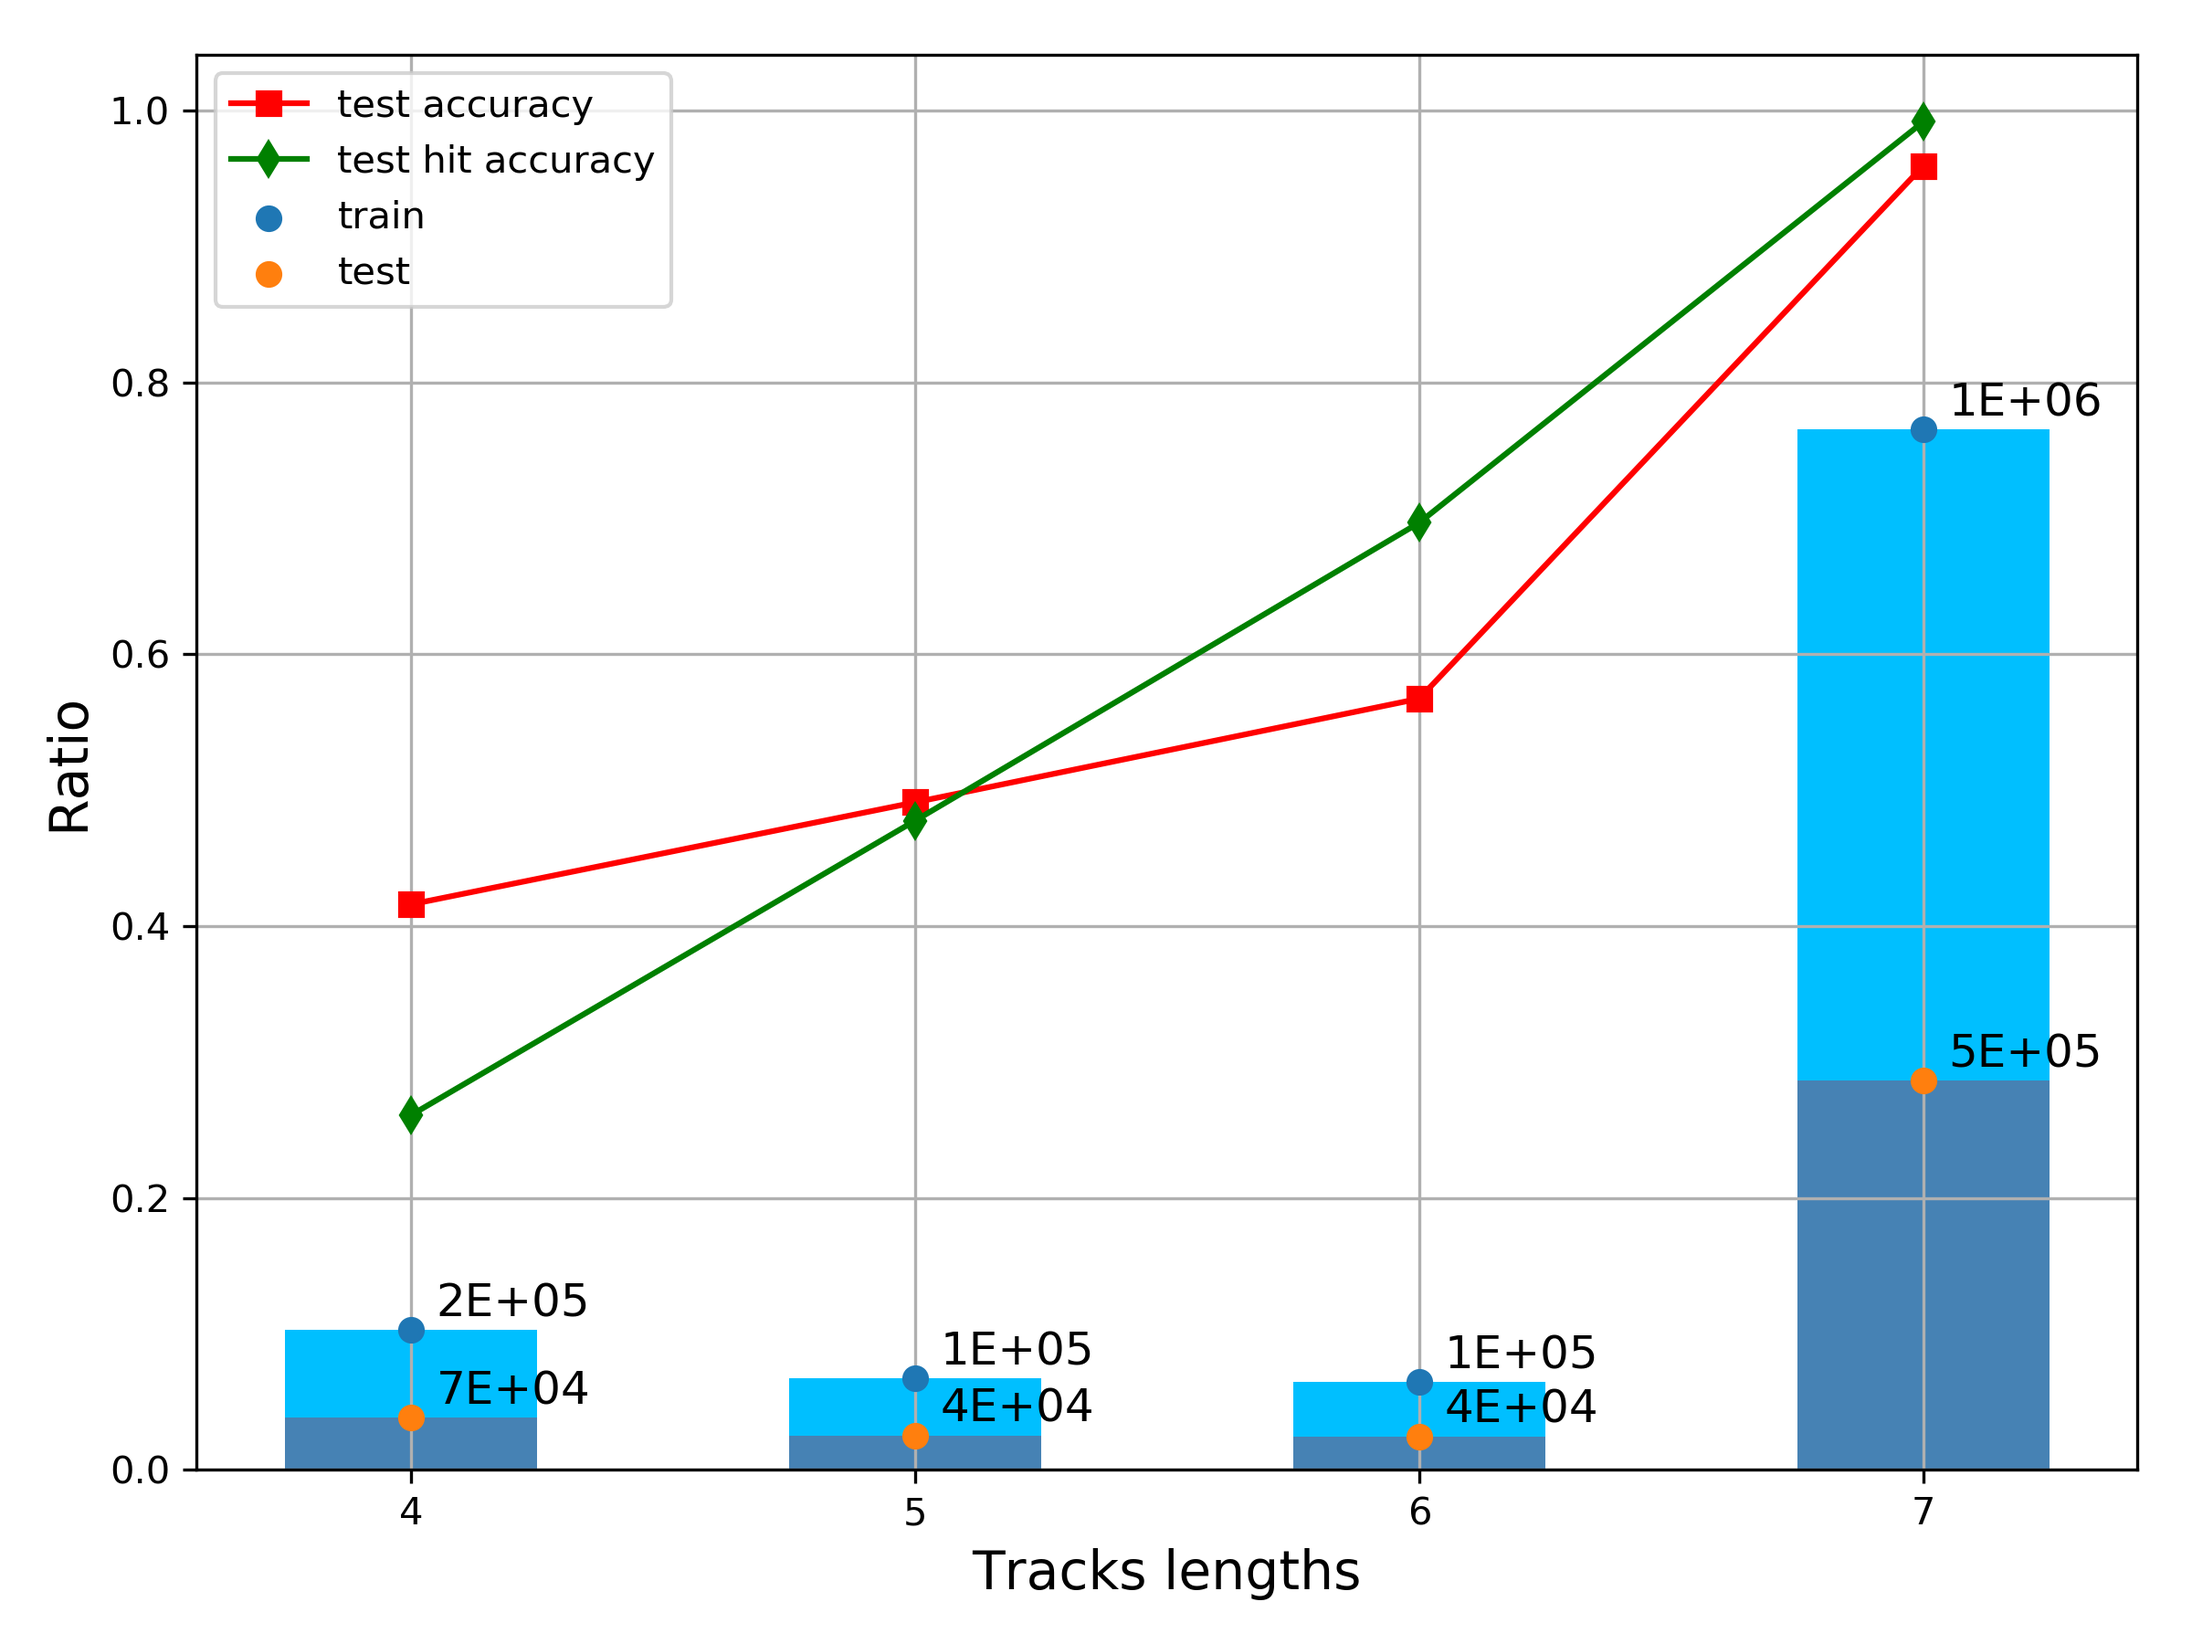
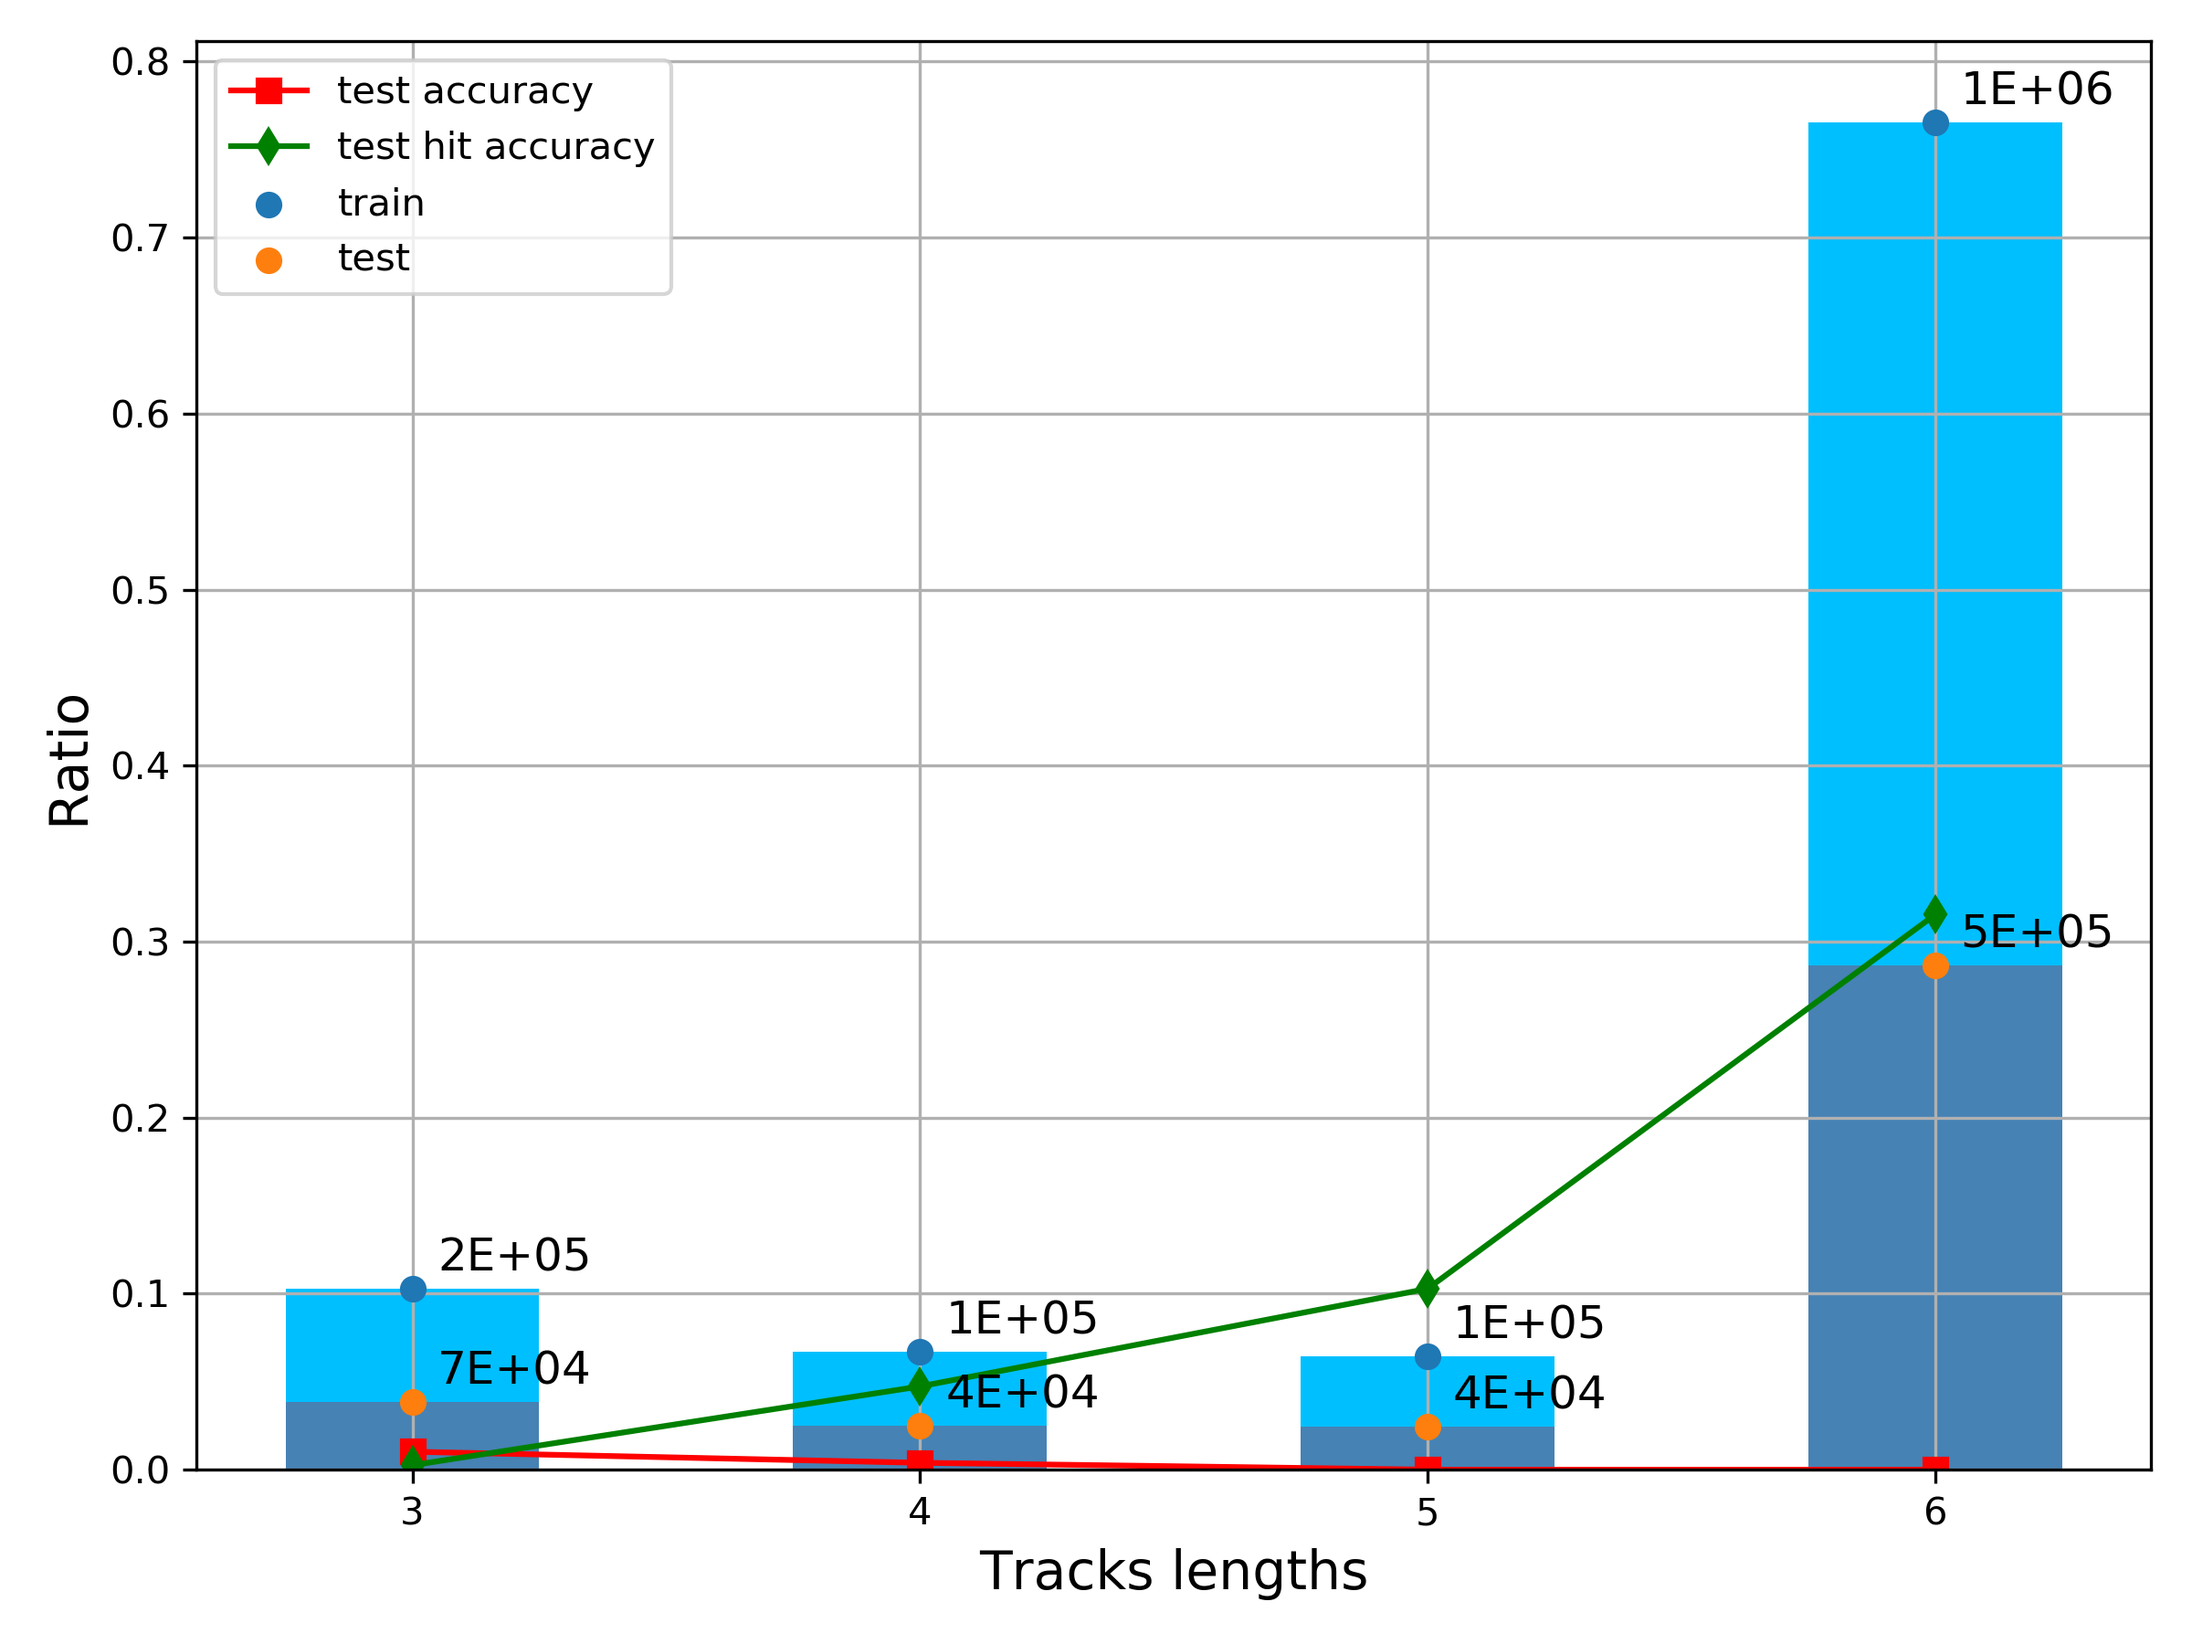
broken tracks dropping on dataset creation

diff --git a/src/data_utils.py b/src/data_utils.py
@@ -49,15 +49,16 @@ def get_tracks_with_vertex(df, vertex_stats=None, random_seed=13, train_split=No
     # initialize bins with [min_tracks]*n_stations
     if train_split:
         is_equal_distr = len(set(train_split)) == 1
+        v_cnts = groupby.size().value_counts()
         if not is_equal_distr:
             # assert False and "TODO: custom split"
-            v_cnts = groupby.size().value_counts()
             bins = [v_cnts[val] if val >= (n_stations + 1 - len(train_split)) else 0 for val in range(n_stations + 1)]
             for ind, val in enumerate(range((n_stations + 1 - len(train_split)), n_stations+1)):
                 if train_split[ind] != -1:
                     bins[val] *= train_split[ind]
         else:
-            bins = [groupby.size().value_counts().min()] * (n_stations + 1)
+            min_val = v_cnts.min()
+            bins = [ min_val if station in v_cnts else 0 for station in range(n_stations + 1)]
 
 
     # create result array
@@ -73,13 +74,16 @@ def get_tracks_with_vertex(df, vertex_stats=None, random_seed=13, train_split=No
         res[:, 0] = vertex
 
     # get tracks
-    tracks = groupby[['x', 'y', 'z', 'station', 'track', 'event']].progress_apply(pd.Series.tolist)
+    tracks = groupby[['x', 'y', 'z', 'station']].progress_apply(pd.Series.tolist)
     
     # fill result array
     ind = 0
+    broken_cnt = [0]*(n_stations + 1)
     #if bins:
         # TODO: shuffle with info about track_id and event_id
         #np.random.RandomState(seed=random_seed).shuffle(tracks.values)
+    if bins:
+        copy_bins = np.copy(bins)
     for i, track in enumerate(tqdm(tracks)):
         track_len = len(track)
         if vertex_stats is None:
@@ -99,11 +103,16 @@ def get_tracks_with_vertex(df, vertex_stats=None, random_seed=13, train_split=No
                     bins[track_len] -= 1
                     ind += 1
                 else:
-                    print("\n IGNORED event %d track %d" % (track[4], track[5]))
-                    print(track, ';\n=========\n\n')
+                    broken_cnt[track_len] += 1
         else:
             res[i, 1:track_len + 1] = np.asarray(track)
-    
+    if bins:
+        # this space is left in the res because of appearance of broken tracks
+        gap = np.sum(bins)
+        if gap > 0:
+            res = res[:-gap]
+    print("\n Total tracks:", (copy_bins if bins else groupby.size().value_counts()))
+    print(" Total broken tracks:", broken_cnt, '\n')
     return res
     
 
@@ -139,7 +148,7 @@ def read_train_dataset(dirpath, vertex_fname=None, random_seed=13, debug=False, 
         # extract only true tracks
         df = df[df.track != -1]
         if debug and debug['debug_size']:
-            df = df[:debug['debug_size']]
+            df = df[df.event < debug['debug_size']]
         # get true tracks array (N, M, 3)
         train[i] = get_tracks_with_vertex(df, vertex_stats, random_seed, train_split)
         length[i] = len(train[i])
